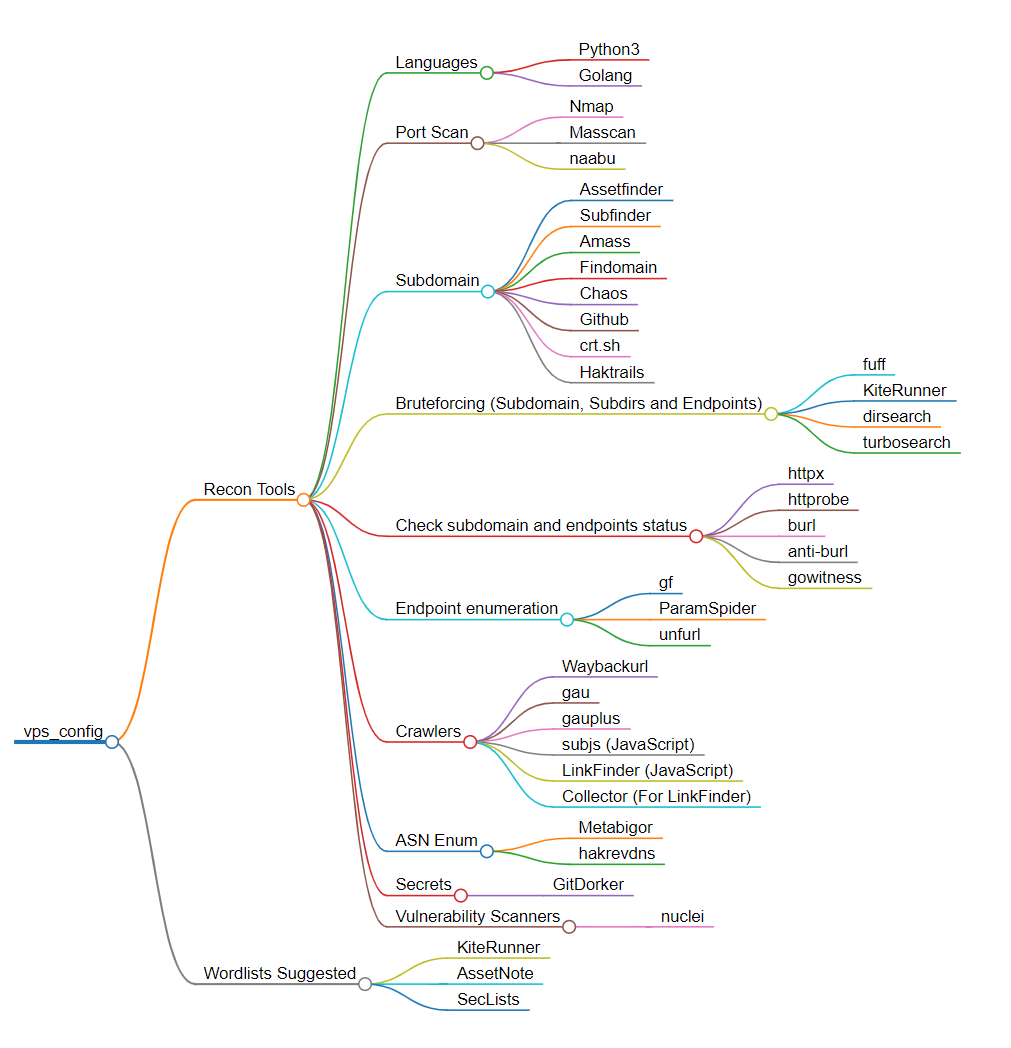
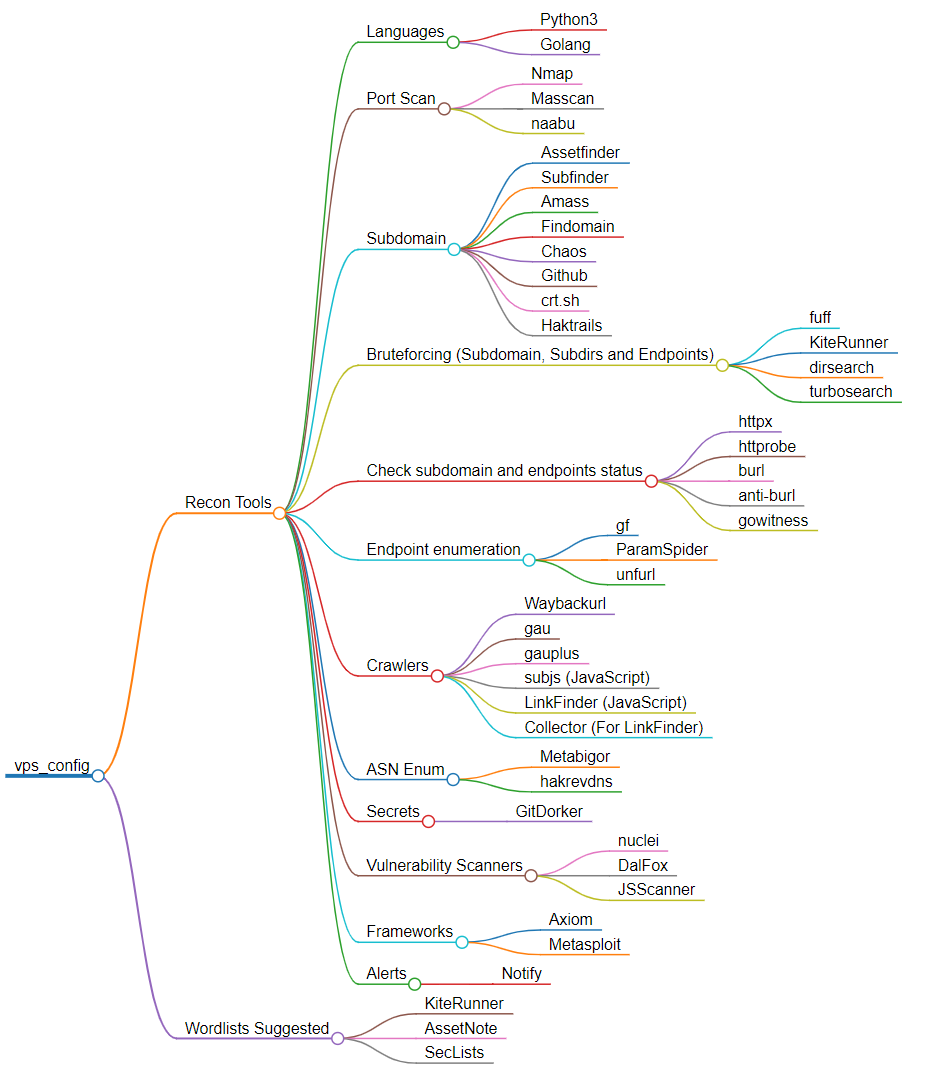
Add news tools

diff --git a/markmap.html b/markmap.html
@@ -37,6 +37,6 @@
           Markmap
         } = getMarkmap();
         window.mm = Markmap.create('svg#mindmap', getOptions == null ? void 0 : getOptions(), data);
-      })(() => window.markmap,null,{"t":"heading","d":1,"p":{"lines":[0,1]},"v":"vps_config","c":[{"t":"heading","d":2,"p":{"lines":[2,3]},"v":"Recon Tools","c":[{"t":"heading","d":3,"p":{"lines":[4,5]},"v":"Languages","c":[{"t":"list_item","d":5,"p":{"lines":[5,6]},"v":"Python3"},{"t":"list_item","d":5,"p":{"lines":[6,7]},"v":"Golang"}]},{"t":"heading","d":3,"p":{"lines":[8,9]},"v":"Port Scan","c":[{"t":"list_item","d":5,"p":{"lines":[9,10]},"v":"Nmap"},{"t":"list_item","d":5,"p":{"lines":[10,11]},"v":"Masscan"},{"t":"list_item","d":5,"p":{"lines":[11,12]},"v":"naabu"}]},{"t":"heading","d":3,"p":{"lines":[13,14]},"v":"Subdomain","c":[{"t":"list_item","d":5,"p":{"lines":[14,15]},"v":"Assetfinder"},{"t":"list_item","d":5,"p":{"lines":[15,16]},"v":"Subfinder"},{"t":"list_item","d":5,"p":{"lines":[16,17]},"v":"Amass"},{"t":"list_item","d":5,"p":{"lines":[17,18]},"v":"Findomain"},{"t":"list_item","d":5,"p":{"lines":[18,19]},"v":"Chaos"},{"t":"list_item","d":5,"p":{"lines":[19,20]},"v":"Github"},{"t":"list_item","d":5,"p":{"lines":[20,21]},"v":"crt.sh"},{"t":"list_item","d":5,"p":{"lines":[21,22]},"v":"Haktrails"}]},{"t":"heading","d":3,"p":{"lines":[23,24]},"v":"Bruteforcing (Subdomain, Subdirs and Endpoints)","c":[{"t":"list_item","d":5,"p":{"lines":[24,25]},"v":"fuff"},{"t":"list_item","d":5,"p":{"lines":[25,26]},"v":"KiteRunner"},{"t":"list_item","d":5,"p":{"lines":[26,27]},"v":"dirsearch"},{"t":"list_item","d":5,"p":{"lines":[27,28]},"v":"turbosearch"}]},{"t":"heading","d":3,"p":{"lines":[29,30]},"v":"Check subdomain and endpoints status","c":[{"t":"list_item","d":5,"p":{"lines":[30,31]},"v":"httpx"},{"t":"list_item","d":5,"p":{"lines":[31,32]},"v":"httprobe"},{"t":"list_item","d":5,"p":{"lines":[32,33]},"v":"burl"},{"t":"list_item","d":5,"p":{"lines":[33,34]},"v":"anti-burl"},{"t":"list_item","d":5,"p":{"lines":[34,35]},"v":"gowitness"}]},{"t":"heading","d":3,"p":{"lines":[36,37]},"v":"Endpoint enumeration","c":[{"t":"list_item","d":5,"p":{"lines":[37,38]},"v":"gf"},{"t":"list_item","d":5,"p":{"lines":[38,39]},"v":"ParamSpider"},{"t":"list_item","d":5,"p":{"lines":[39,40]},"v":"unfurl"}]},{"t":"heading","d":3,"p":{"lines":[41,42]},"v":"Crawlers","c":[{"t":"list_item","d":5,"p":{"lines":[42,43]},"v":"Waybackurl"},{"t":"list_item","d":5,"p":{"lines":[43,44]},"v":"gau"},{"t":"list_item","d":5,"p":{"lines":[44,45]},"v":"gauplus"},{"t":"list_item","d":5,"p":{"lines":[45,46]},"v":"subjs (JavaScript)"},{"t":"list_item","d":5,"p":{"lines":[46,47]},"v":"LinkFinder (JavaScript)"},{"t":"list_item","d":5,"p":{"lines":[47,48]},"v":"Collector (For LinkFinder)"}]},{"t":"heading","d":3,"p":{"lines":[49,50]},"v":"ASN Enum","c":[{"t":"list_item","d":5,"p":{"lines":[50,51]},"v":"Metabigor"},{"t":"list_item","d":5,"p":{"lines":[51,52]},"v":"hakrevdns"}]},{"t":"heading","d":3,"p":{"lines":[53,54]},"v":"Secrets","c":[{"t":"list_item","d":5,"p":{"lines":[54,55]},"v":"GitDorker"}]},{"t":"heading","d":3,"p":{"lines":[56,57]},"v":"Vulnerability Scanners","c":[{"t":"list_item","d":5,"p":{"lines":[57,58]},"v":"nuclei"}]}]},{"t":"heading","d":2,"p":{"lines":[59,60]},"v":"Wordlists Suggested","c":[{"t":"list_item","d":4,"p":{"lines":[60,61]},"v":"KiteRunner"},{"t":"list_item","d":4,"p":{"lines":[61,62]},"v":"AssetNote"},{"t":"list_item","d":4,"p":{"lines":[62,63]},"v":"SecLists"}]}]})</script>
+      })(() => window.markmap,null,{"t":"heading","d":1,"p":{"lines":[0,1]},"v":"vps_config","c":[{"t":"heading","d":2,"p":{"lines":[2,3]},"v":"Recon Tools","c":[{"t":"heading","d":3,"p":{"lines":[4,5]},"v":"Languages","c":[{"t":"list_item","d":5,"p":{"lines":[5,6]},"v":"Python3"},{"t":"list_item","d":5,"p":{"lines":[6,7]},"v":"Golang"}]},{"t":"heading","d":3,"p":{"lines":[8,9]},"v":"Port Scan","c":[{"t":"list_item","d":5,"p":{"lines":[9,10]},"v":"Nmap"},{"t":"list_item","d":5,"p":{"lines":[10,11]},"v":"Masscan"},{"t":"list_item","d":5,"p":{"lines":[11,12]},"v":"naabu"}]},{"t":"heading","d":3,"p":{"lines":[13,14]},"v":"Subdomain","c":[{"t":"list_item","d":5,"p":{"lines":[14,15]},"v":"Assetfinder"},{"t":"list_item","d":5,"p":{"lines":[15,16]},"v":"Subfinder"},{"t":"list_item","d":5,"p":{"lines":[16,17]},"v":"Amass"},{"t":"list_item","d":5,"p":{"lines":[17,18]},"v":"Findomain"},{"t":"list_item","d":5,"p":{"lines":[18,19]},"v":"Chaos"},{"t":"list_item","d":5,"p":{"lines":[19,20]},"v":"Github"},{"t":"list_item","d":5,"p":{"lines":[20,21]},"v":"crt.sh"},{"t":"list_item","d":5,"p":{"lines":[21,22]},"v":"Haktrails"}]},{"t":"heading","d":3,"p":{"lines":[23,24]},"v":"Bruteforcing (Subdomain, Subdirs and Endpoints)","c":[{"t":"list_item","d":5,"p":{"lines":[24,25]},"v":"fuff"},{"t":"list_item","d":5,"p":{"lines":[25,26]},"v":"KiteRunner"},{"t":"list_item","d":5,"p":{"lines":[26,27]},"v":"dirsearch"},{"t":"list_item","d":5,"p":{"lines":[27,28]},"v":"turbosearch"}]},{"t":"heading","d":3,"p":{"lines":[29,30]},"v":"Check subdomain and endpoints status","c":[{"t":"list_item","d":5,"p":{"lines":[30,31]},"v":"httpx"},{"t":"list_item","d":5,"p":{"lines":[31,32]},"v":"httprobe"},{"t":"list_item","d":5,"p":{"lines":[32,33]},"v":"burl"},{"t":"list_item","d":5,"p":{"lines":[33,34]},"v":"anti-burl"},{"t":"list_item","d":5,"p":{"lines":[34,35]},"v":"gowitness"}]},{"t":"heading","d":3,"p":{"lines":[36,37]},"v":"Endpoint enumeration","c":[{"t":"list_item","d":5,"p":{"lines":[37,38]},"v":"gf"},{"t":"list_item","d":5,"p":{"lines":[38,39]},"v":"ParamSpider"},{"t":"list_item","d":5,"p":{"lines":[39,40]},"v":"unfurl"}]},{"t":"heading","d":3,"p":{"lines":[41,42]},"v":"Crawlers","c":[{"t":"list_item","d":5,"p":{"lines":[42,43]},"v":"Waybackurl"},{"t":"list_item","d":5,"p":{"lines":[43,44]},"v":"gau"},{"t":"list_item","d":5,"p":{"lines":[44,45]},"v":"gauplus"},{"t":"list_item","d":5,"p":{"lines":[45,46]},"v":"subjs (JavaScript)"},{"t":"list_item","d":5,"p":{"lines":[46,47]},"v":"LinkFinder (JavaScript)"},{"t":"list_item","d":5,"p":{"lines":[47,48]},"v":"Collector (For LinkFinder)"}]},{"t":"heading","d":3,"p":{"lines":[49,50]},"v":"ASN Enum","c":[{"t":"list_item","d":5,"p":{"lines":[50,51]},"v":"Metabigor"},{"t":"list_item","d":5,"p":{"lines":[51,52]},"v":"hakrevdns"}]},{"t":"heading","d":3,"p":{"lines":[53,54]},"v":"Secrets","c":[{"t":"list_item","d":5,"p":{"lines":[54,55]},"v":"GitDorker"}]},{"t":"heading","d":3,"p":{"lines":[56,57]},"v":"Vulnerability Scanners","c":[{"t":"list_item","d":5,"p":{"lines":[57,58]},"v":"nuclei"},{"t":"list_item","d":5,"p":{"lines":[58,59]},"v":"DalFox"},{"t":"list_item","d":5,"p":{"lines":[59,60]},"v":"JSScanner"}]},{"t":"heading","d":3,"p":{"lines":[61,62]},"v":"Frameworks","c":[{"t":"list_item","d":5,"p":{"lines":[62,63]},"v":"Axiom"},{"t":"list_item","d":5,"p":{"lines":[63,64]},"v":"Metasploit"}]},{"t":"heading","d":3,"p":{"lines":[65,66]},"v":"Alerts","c":[{"t":"list_item","d":5,"p":{"lines":[66,67]},"v":"Notify"}]}]},{"t":"heading","d":2,"p":{"lines":[68,69]},"v":"Wordlists Suggested","c":[{"t":"list_item","d":4,"p":{"lines":[69,70]},"v":"KiteRunner"},{"t":"list_item","d":4,"p":{"lines":[70,71]},"v":"AssetNote"},{"t":"list_item","d":4,"p":{"lines":[71,72]},"v":"SecLists"}]}]})</script>
 </body>
 </html>

diff --git a/markmap.md b/markmap.md
@@ -57,6 +57,14 @@
 ### Vulnerability Scanners
 - nuclei
 - DalFox
+- JSScanner
+
+### Frameworks
+- Axiom
+- Metasploit
+
+### Alerts
+- Notify
 
 ## Wordlists Suggested
 - KiteRunner
